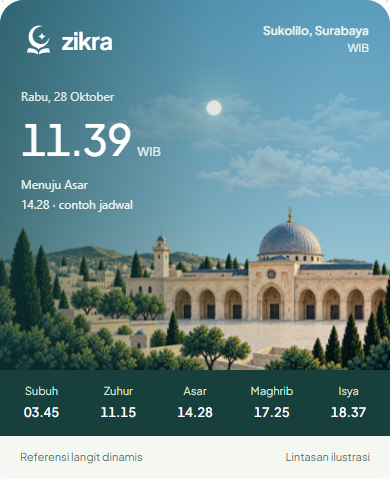
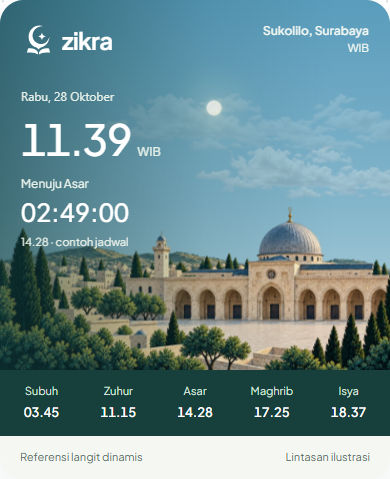
design: restore next prayer countdown in sky reference

Changed region(s): [[0.0308, 0.38, 0.3385, 0.4676], [0.0308, 0.4969, 0.3385, 0.5261]]

diff --git a/design/assets/home-sky-realistic-2026-10-28/preview-fragment.html b/design/assets/home-sky-realistic-2026-10-28/preview-fragment.html
@@ -28,6 +28,8 @@
 #zikra-sun-preview .zs-clock{font-size:43px;line-height:1.25;font-weight:500;letter-spacing:-1.3px;margin-top:7px;font-variant-numeric:tabular-nums}
 #zikra-sun-preview .zs-clock small{font-size:12px;letter-spacing:0;margin-left:6px;color:#e2eee6}
 #zikra-sun-preview .zs-next{font-size:12px;color:#eff6ee;margin-top:8px;max-width:54%;line-height:1.7}
+#zikra-sun-preview .zs-countdown{font-size:25px;font-weight:500;line-height:1.35;letter-spacing:.3px;font-variant-numeric:tabular-nums;color:#fff;margin:2px 0}
+#zikra-sun-preview .zs-next-time{font-size:11px;color:#e7f0e8}
 #zikra-sun-preview .zs-prayers{display:grid;grid-template-columns:repeat(5,minmax(0,1fr));padding:13px 3px 14px;background:#173f3b;color:#d7e8df}
 #zikra-sun-preview .zs-prayers span{text-align:center;font-size:11px}
 #zikra-sun-preview .zs-prayers b{display:block;font-size:13px;font-weight:550;color:#fff;margin-top:3px;font-variant-numeric:tabular-nums}
@@ -57,7 +59,7 @@
[1 lines of base64/hex data omitted]
           <p class="zs-date">Rabu, 28 Oktober</p>
           <div class="zs-clock"><span data-clock>11.39</span><small>WIB</small></div>
-          <p class="zs-next" data-next>Menuju Asar<br>14.28 · contoh jadwal</p>
+          <div class="zs-next" data-next><span data-next-label>Menuju Zuhur</span><div class="zs-countdown" data-countdown role="timer" aria-live="off" aria-label="Sisa waktu menuju Zuhur">02:30:00</div><span class="zs-next-time" data-next-time>11.15 · contoh jadwal</span></div>
         </div>
       </div>
       <div class="zs-prayers" aria-label="Contoh jadwal dari versi aplikasi"><span>Subuh<b>03.45</b></span><span>Zuhur<b>11.15</b></span><span>Asar<b>14.28</b></span><span>Maghrib<b>17.25</b></span><span>Isya<b>18.37</b></span></div>
@@ -82,7 +84,7 @@ const play=root.querySelector('[data-play]');
 const sample={"rise":303,"noon":673,"set":1043,"illumination":0.952808,"waxing":false};
 const reduced=matchMedia('(prefers-reduced-motion: reduce)');
 let motionReduced=reduced.matches;
-let time=1230,playing=false,frame=0,last=0;
+let time=525,playing=false,frame=0,last=0;
 const design={size:15,glow:.85};
 const moon=root.querySelector('.zs-moon');
 const clouds=[...root.querySelectorAll('.zs-cloud')];
@@ -170,9 +172,14 @@ function render(announce=true){
   slider.value=Math.round(time);slider.setAttribute('aria-valuetext',format(time)+' WIB');
   const phase=time<sample.rise-70?'Malam':time<sample.rise?'Fajar':time<sample.rise+40?'Terbit':time>sample.set+60?'Malam':time>sample.set-55?'Senja':p<.3?'Pagi':p<.7?'Siang':'Sore';
   if(announce)root.querySelector('#zs-time-detail').textContent=phase+' · lintasan ilustrasi';
-  const next=[[225,'Subuh'],[675,'Zuhur'],[868,'Asar'],[1045,'Maghrib'],[1117,'Isya']].find(t=>t[0]>time);
-  const text=root.querySelector('[data-next]');
-  text.replaceChildren(document.createTextNode(next?'Menuju '+next[1]:'Menuju Subuh besok'),document.createElement('br'),document.createTextNode(next?format(next[0])+' · contoh jadwal':'Jadwal contoh'));
+  const nowSeconds=Math.floor(time*60+1e-6);
+  const next=[[225,'Subuh'],[675,'Zuhur'],[868,'Asar'],[1045,'Maghrib'],[1117,'Isya']].find(prayer=>prayer[0]*60>nowSeconds)||[1440+225,'Subuh'];
+  const tomorrow=next[0]>=1440,remaining=Math.max(0,next[0]*60-nowSeconds);
+  const countdown=[Math.floor(remaining/3600),Math.floor(remaining%3600/60),remaining%60].map(value=>String(value).padStart(2,'0')).join(':');
+  root.querySelector('[data-next-label]').textContent='Menuju '+next[1]+(tomorrow?' besok':'');
+  root.querySelector('[data-countdown]').textContent=countdown;
+  root.querySelector('[data-countdown]').setAttribute('aria-label','Sisa waktu menuju '+next[1]+(tomorrow?' besok':'')+': '+countdown);
+  root.querySelector('[data-next-time]').textContent=format(next[0])+(tomorrow?' · besok':'')+' · contoh jadwal';
   root.style.setProperty('--zs-glow',design.glow);
 }
 function stop(save=true){playing=false;cancelAnimationFrame(frame);last=0;play.textContent='Putar simulasi';render();if(save)store();}

diff --git a/design/assets/home-sky-realistic-2026-10-28/README.md b/design/assets/home-sky-realistic-2026-10-28/README.md
@@ -23,6 +23,12 @@ Pemeriksaan akhir Edge headless lulus pada viewport 320/390/736 px: tidak ada ov
 
 Gambar siang dan malam sebelumnya memiliki siluet kubah yang berbeda dan ditumpuk; alpha gambar malam meninggalkan kubah siang terlihat di belakangnya. Referensi kini hanya memakai **satu gambar masjid** untuk seluruh waktu. Warna/kecerahan berubah dan lampu digambar terpisah di dalam fasad, tanpa gambar kubah kedua. Seluruh kelompok masjid/lampu bergerak bersama ketika parallax aktif. Resource Android lama belum diubah oleh koreksi referensi ini.
 
-Bulan dikurangi dari 23 menjadi 19 px; bayangan bola, noise dan pola kawah berulang dihapus, diganti permukaan hampir rata dengan bercak halus dan batas fase lembut. Ini ilustrasi, bukan foto atau ephemeris baru. Referensi dibuka pada malam bila belum ada pilihan jam tersimpan, agar koreksi mudah dibandingkan.
+Bulan dikurangi dari 23 menjadi 19 px; bayangan bola, noise dan pola kawah berulang dihapus, diganti permukaan hampir rata dengan bercak halus dan batas fase lembut. Ini ilustrasi, bukan foto atau ephemeris baru. Pilihan jam tersimpan dipertahankan; default terkini 08.45 agar hitung mundur mudah dibandingkan dengan masukan pengguna.
 
 Pemeriksaan browser diulang setelah koreksi: tepat satu gambar/siluet masjid dengan geometri identik pada 04.50, 11.39, 16.50, 17.23, 18.00 dan 20.30; lampu fasad hanya aktif saat gelap, bulan malam dan gerak tetap berfungsi. Screenshot siang/malam dan hasil pemeriksaan diperbarui. Seluruh pemeriksaan terarah lulus; belum persetujuan visual pengguna atau implementasi APK.
+
+## Hitung mundur dipulihkan
+
+Hitung mundur yang terlewat saat merapikan referensi kembali tampil di bawah nama salat tujuan, dengan format `HH:MM:SS`. Nilainya berasal dari jam simulasi dan contoh jadwal yang sama, bukan angka tetap; ia berhenti saat simulasi dijeda dan berubah ketika penggeser/putar simulasi digunakan. Pada waktu salat tepat, tujuan beralih ke salat berikutnya; sesudah Isya menuju contoh Subuh besok.
+
+[Screenshot 08.45](preview-countdown.png) menunjukkan `02:30:00` menuju Zuhur11.15. Lima kasus selisih/batas (08.45,11.14,11.15,18.37,20.30), perubahan saat playback, keterbacaan pada tiga lebar layar dan pemeriksaan langit sebelumnya lulus di browser. Ini tetap referensi; tidak mengubah penghitung/jadwal pada APK.

diff --git a/IMPLEMENTATION_PLAN.md b/IMPLEMENTATION_PLAN.md
@@ -300,4 +300,4 @@ Format baris berikutnya: `tanggal | ID | hasil singkat + batas yang tersisa | ta
 
 | 28 Oktober2026 | F01/F03 subset Home Imersif1.9.16 | Desain disetujui diterapkan; tema tersimpan, nama lokasi/kontras/font200%, logo utuh dan audio Alafasy.146 unit/4 skip,12 native akhir lulus; update1.9.15 berisi terjaga. HP, jadwal resmi dan gerbang publik belum diperluas. | [Bukti/source/receipt](android/validation/home-immersive-2026-10-28/README.md) |
 
-| 28 Oktober2026 | F01/F04 referensi langit lanjutan, belum native | Aset awan transparan imagegen, dua lapis gerak/parallax, matahari dan gradasi waktu, bulan/bintang dalam referensi interaktif. Koreksi masukan pengguna: satu siluet masjid menghilangkan kubah ganda; bulan lebih kecil dan halus, lampu fasad terpisah. Browser tiga lebar dan geometri enam waktu lulus. Posisi bulan/lintasan tetap ilustrasi; bukan cuaca langsung. Tidak mengganti APK1.9.16 atau menutup F04/G02, menunggu keputusan desain sebelum integrasi Android. | [Aset, referensi dan batas](design/assets/home-sky-realistic-2026-10-28/README.md) |
+| 28 Oktober2026 | F01/F04 referensi langit lanjutan, belum native | Aset awan transparan imagegen, dua lapis gerak/parallax, matahari dan gradasi waktu, bulan/bintang dalam referensi interaktif. Koreksi masukan pengguna: satu siluet masjid menghilangkan kubah ganda; bulan lebih kecil dan halus, lampu fasad terpisah; hitung mundur HH:MM:SS dipulihkan mengikuti jam simulasi, termasuk pergantian salat/Subuh besok. Browser tiga lebar, lima kasus countdown dan geometri enam waktu lulus. Posisi bulan/lintasan tetap ilustrasi; bukan cuaca langsung. Tidak mengganti APK1.9.16 atau menutup F04/G02, menunggu keputusan desain sebelum integrasi Android. | [Aset, referensi dan batas](design/assets/home-sky-realistic-2026-10-28/README.md) |
